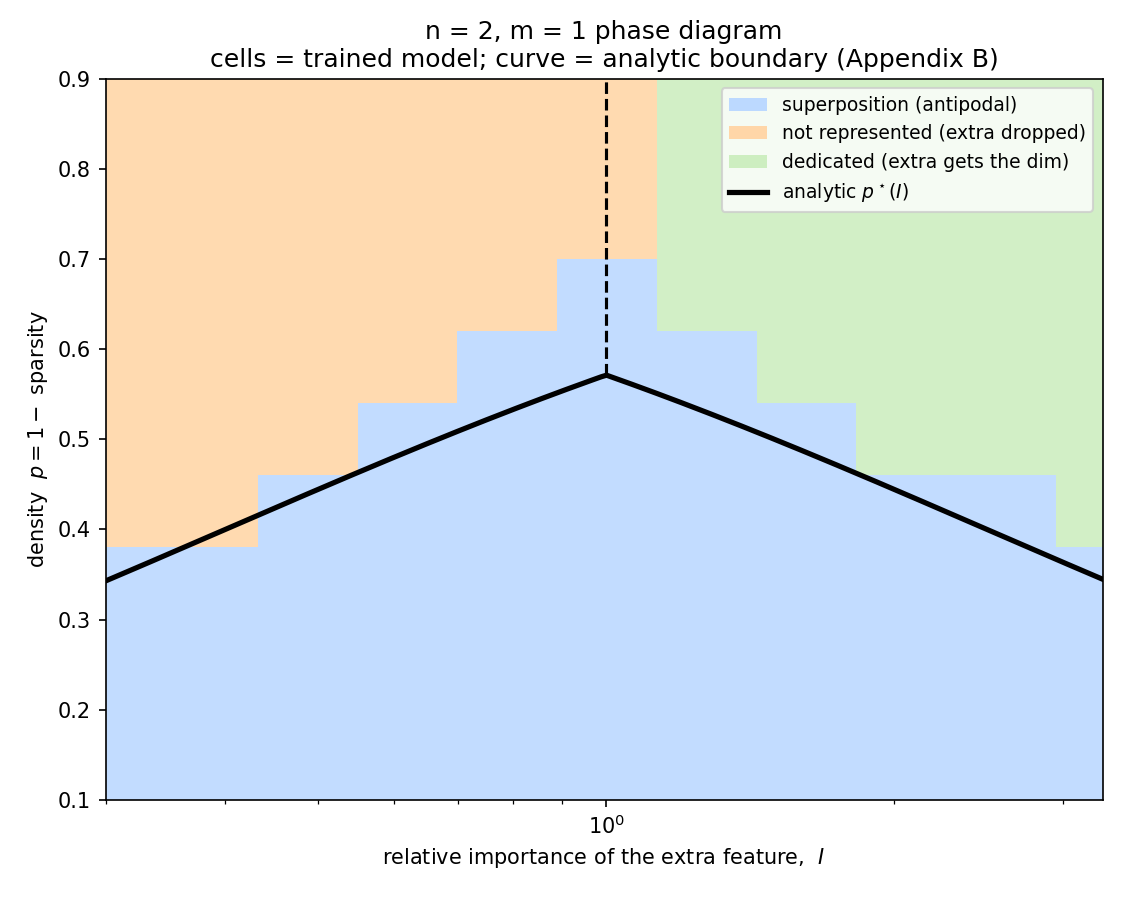
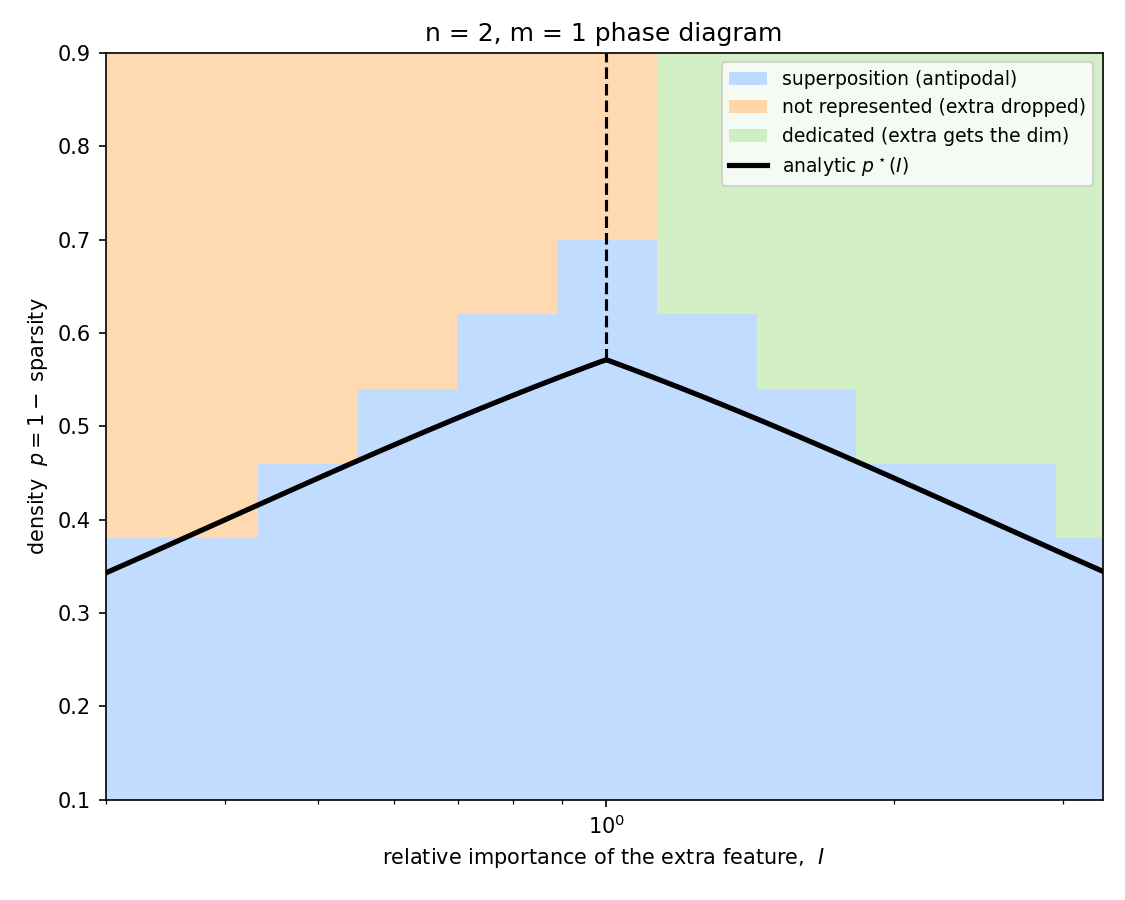
Refine Results

diff --git a/experiments/04_phase_diagram_n2m1.py b/experiments/04_phase_diagram_n2m1.py
@@ -76,10 +76,7 @@ def main() -> None:
     ax.set_ylim(DENSITIES[0], DENSITIES[-1])
     ax.set_xlabel("relative importance of the extra feature,  $I$")
     ax.set_ylabel("density  $p = 1 - $ sparsity")
-    ax.set_title(
-        "n = 2, m = 1 phase diagram\n"
-        "cells = trained model; curve = analytic boundary (Appendix B)"
-    )
+    ax.set_title("n = 2, m = 1 phase diagram")
     legend = [
         Patch(facecolor="#bcd9ff", label="superposition (antipodal)"),
         Patch(facecolor="#ffd6a8", label="not represented (extra dropped)"),

diff --git a/experiments/02_feature_geometry.py b/experiments/02_feature_geometry.py
@@ -1,4 +1,4 @@
-"""Experiment 3 — quantised geometry and the packing-problem connection.
+"""Experiment 2 — quantized geometry and the packing-problem connection.
 
 Two ideas, one figure.
 
@@ -80,7 +80,7 @@ def main() -> None:
     axA.set_ylim(0, 1.08)
     axA.set_xlabel("sparsity")
     axA.set_ylabel(r"feature dimensionality $D_i$")
-    axA.set_title("(A) Geometry is quantised:\n$D_i$ locks onto values set by regular polygons")
+    axA.set_title("(A) Geometry is quantized:\n$D_i$ locks onto values set by regular polygons")
 
     # ---- (B) the pentagon as a solved packing problem ----
     plot_feature_vectors_2d(axB, pentagon_W)

diff --git a/README.md b/README.md
@@ -112,7 +112,7 @@ Staying with the $n = 5, m = 2$ model ($r = 0.9$), we sweep sparsity finely and 
 
 ![Feature geometry and packing](figures/02_feature_geometry.png)
 
-**(A) Quantised geometry.** Recall the feature dimensionality $D_i$ from Eq (4). For $k$ unit vectors arranged as a **regular polygon** in 2D ($m=2$), every pairwise angle is a multiple of $2\pi/k$, so the denominator of $D_i$ collapses to a clean value (derived in the Appendix), giving
+**(A) Quantized geometry.** Recall the feature dimensionality $D_i$ from Eq (4). For $k$ unit vectors arranged as a **regular polygon** in 2D ($m=2$), every pairwise angle is a multiple of $2\pi/k$, so the denominator of $D_i$ collapses to a clean value (derived in the Appendix), giving
 
 ```math
 D_i = \frac{2}{k}. \quad (5)
@@ -127,7 +127,7 @@ So the dimensionality does not drift smoothly — it **locks onto a discrete lad
 | $1/2$ | 4 | two features back-to-back (a pair) |
 | $2/5$ | 5 | five features at 72° (a pentagon) |
 
-The flat plateaus separated by jumps are the signature of distinct **geometric phases** — like discrete energy levels in a physical system. (The $2/3$ line is drawn for reference; this particular model jumps past it.)
+In panel A, **each dot is one feature's $D_i$** (from the best of 6 seeds at that sparsity, not separate seeds); overlapping dots mean those features share the same dimensionality, as they do when the geometry is a regular polygon. The dots settle onto a discrete set of levels, and those flat plateaus separated by jumps are the signature of distinct **geometric phases** — like discrete energy levels in a physical system. (The $2/3$ line is drawn for reference; this particular model jumps past it.)
 
 **(B) A solved packing problem.** The paper identifies the model's *interference* term as a **generalized Thomson energy** — points packed on a sphere minimizing a repulsion. We make that concrete and measure it: the total squared overlap between *unit* feature directions,
 